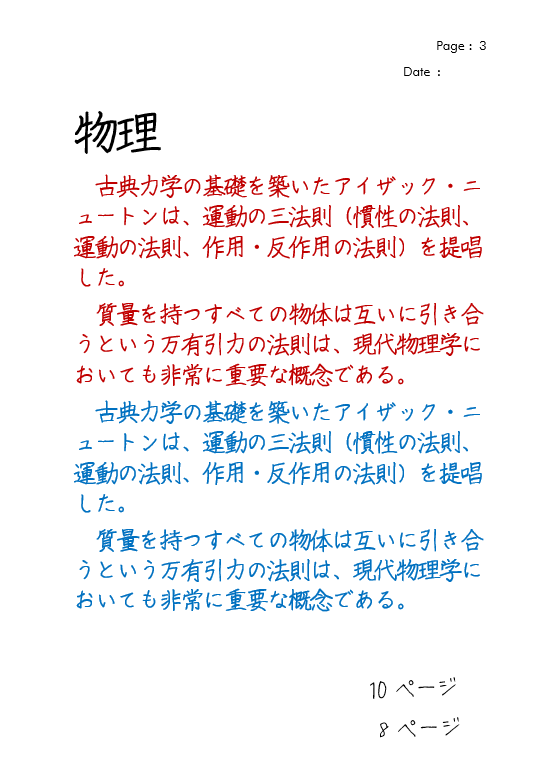
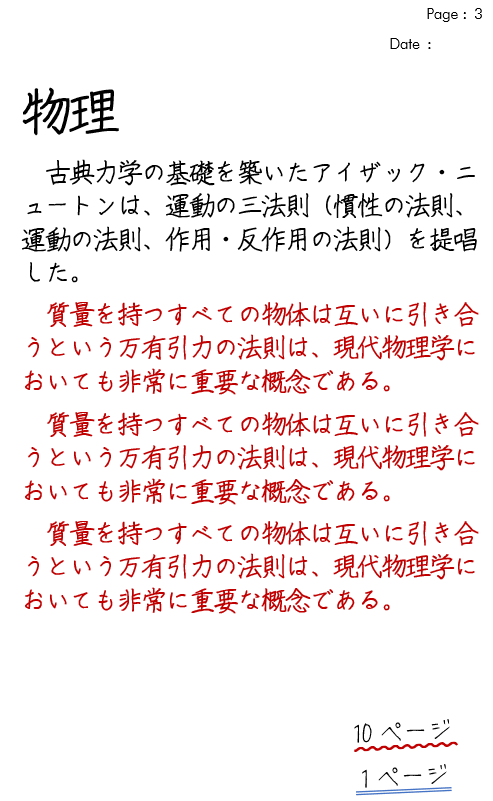
Update notebook page three anomaly

diff --git a/site/main.js b/site/main.js
@@ -167,7 +167,7 @@ export function createExplanationView() {
               <p>ノートの3～7ページには、それぞれ異なる種類の異変が仕込まれていた。</p>
               <p>画像をタップすると、異変の場所を色で示した答えに切り替わる。</p>
               <div class="explanation-flip-grid">
-                ${flipCard('3', 'notebook-page-3.png', 'notebook-page-3-answer.png', '同じ内容が2回書かれている')}
+                ${flipCard('3', 'notebook-page-3.png', 'notebook-page-3-answer.png', '同じ内容が何度も書かれている')}
                 ${flipCard('4', 'notebook-page-4.png', 'notebook-page-4-answer.png', '書いた人の身に「何か」が起きている')}
                 ${flipCard('5', 'notebook-page-5.png', 'notebook-page-5-answer.png', '途中から家庭科の内容になっている')}
                 ${flipCard('6', 'notebook-page-6.png', 'notebook-page-6-answer.png', '信じられないほど多くの誤字がある')}
